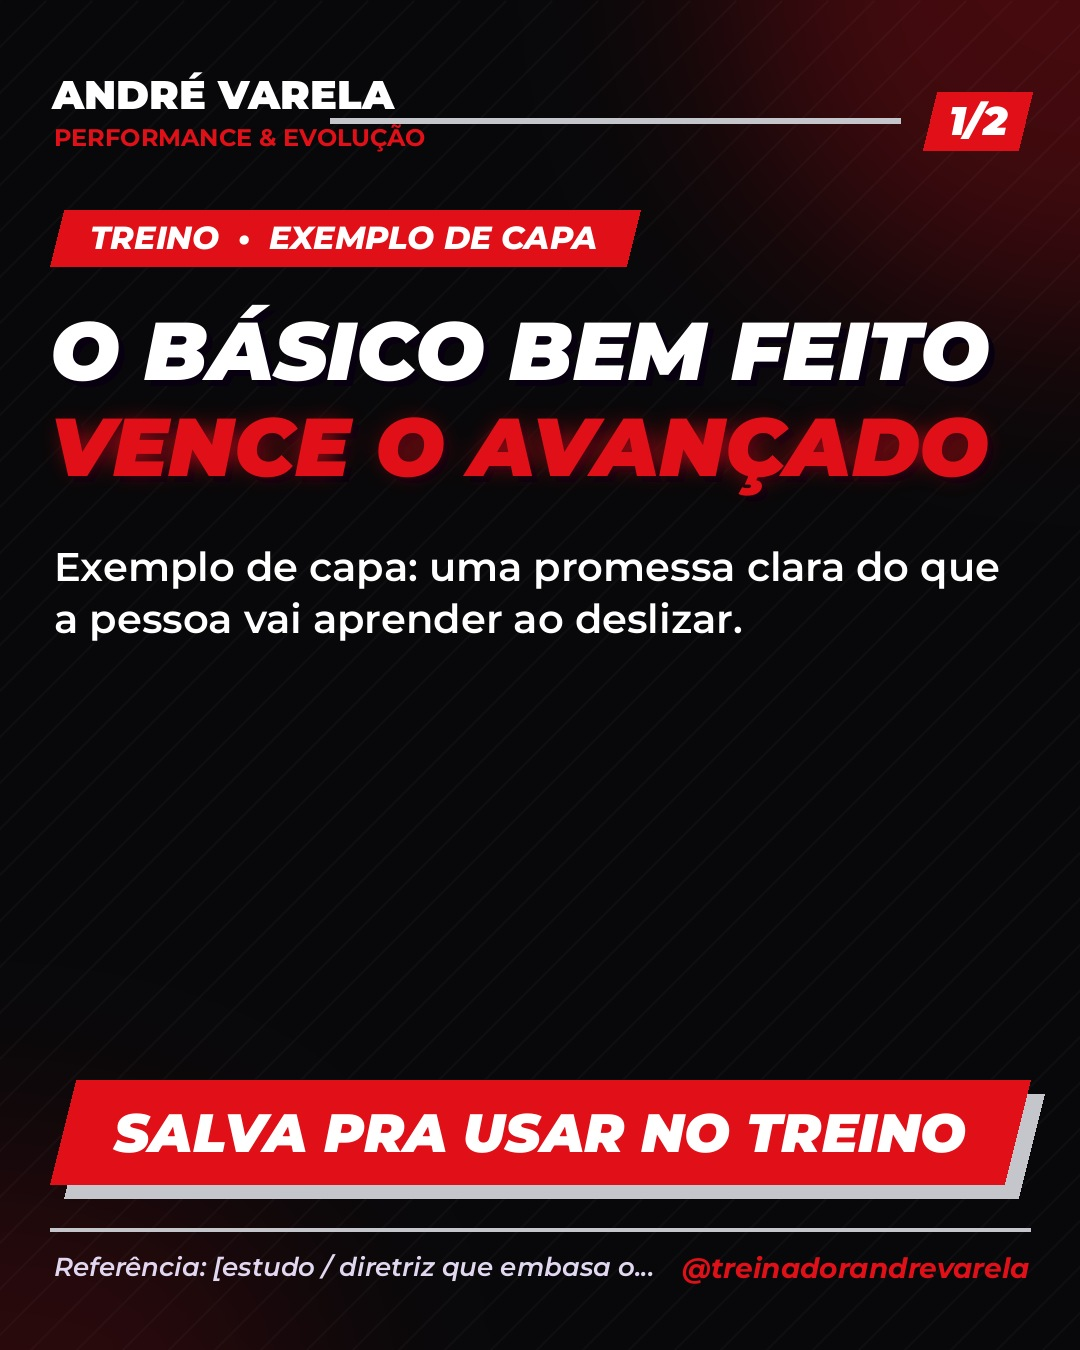
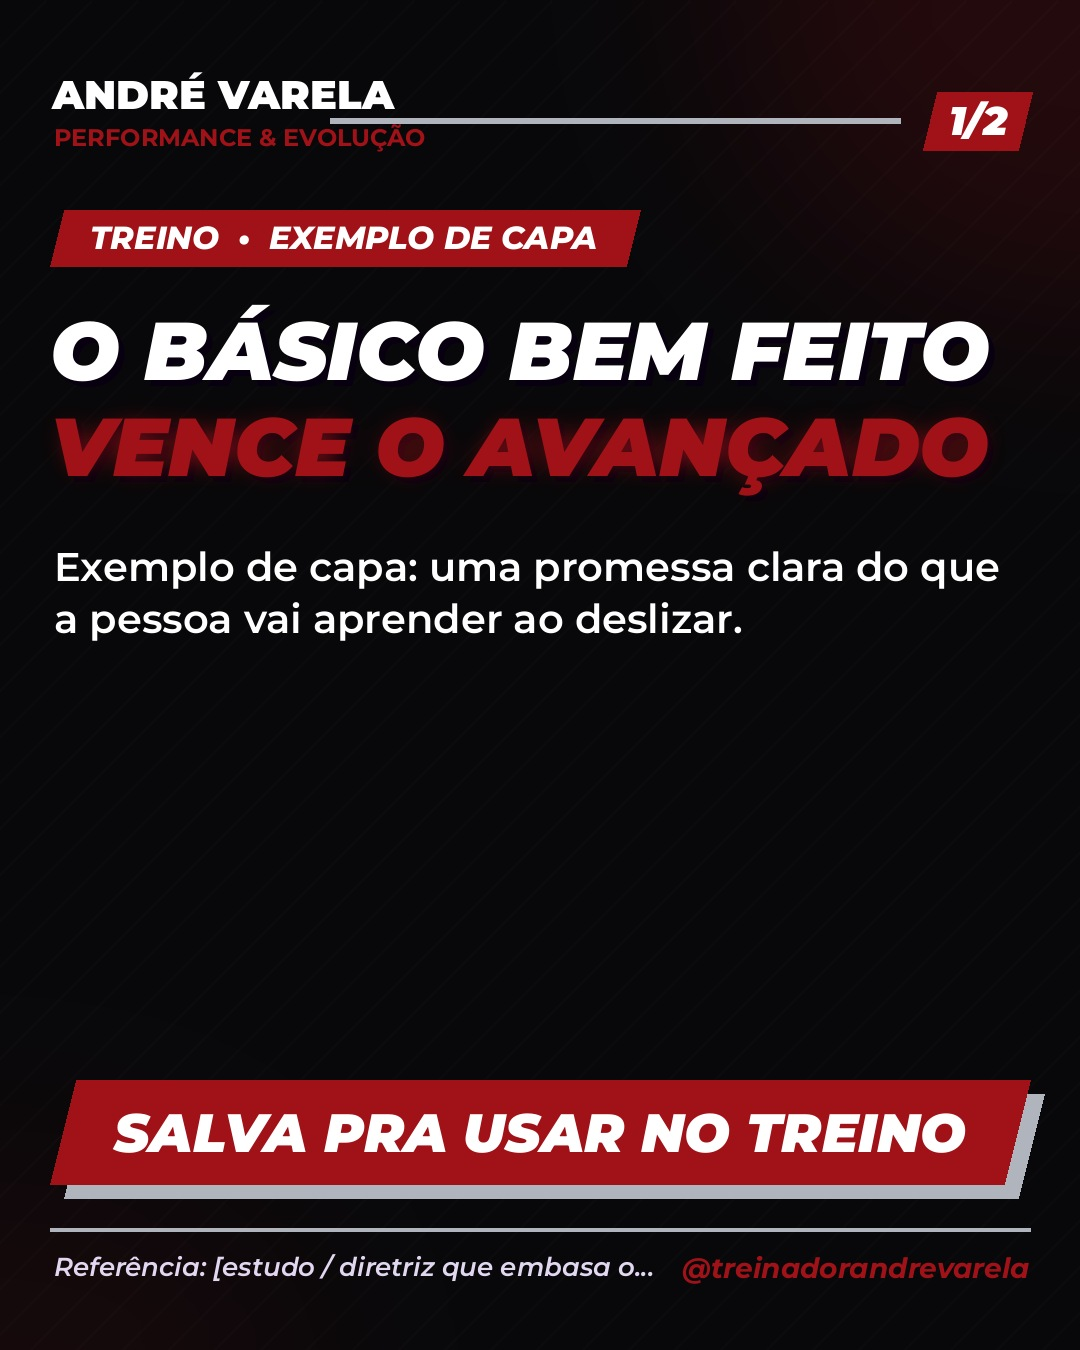
André Varela: tema alinhado à marca oficial (#A11218, vermelho pontual) e playbook aponta para o repo privado
Claude-Session: https://claude.ai/code/session_01PG81yox6oPVQ1jRhfWPUtz

diff --git a/gta-loucura/scripts/carrossel_v1.py b/gta-loucura/scripts/carrossel_v1.py
@@ -40,11 +40,11 @@ def fundo(foco_y=0.55, escurecer=150):
     if not TEMA.get('fundo'):
         im = Image.new('RGBA', (W, H), (8, 8, 10, 255)); d = ImageDraw.Draw(im)
         glow = Image.new('RGBA', (W, H), (0, 0, 0, 0)); gd = ImageDraw.Draw(glow)
-        gd.ellipse([W - 420, -380, W + 380, 380], fill=(*PINK, 70))
-        gd.ellipse([-300, H - 260, 380, H + 300], fill=(*PINK, 40))
+        gd.ellipse([W - 420, -380, W + 380, 380], fill=(*PINK, 45))
+        gd.ellipse([-300, H - 260, 380, H + 300], fill=(*PINK, 22))
         im.alpha_composite(glow.filter(ImageFilter.GaussianBlur(120)))
         lin = Image.new('RGBA', (W, H), (0, 0, 0, 0)); ld = ImageDraw.Draw(lin)
-        for x in range(-H, W, 46): ld.line([(x, H), (x + H, 0)], fill=(255, 255, 255, 6), width=2)
+        for x in range(-H, W, 46): ld.line([(x, H), (x + H, 0)], fill=(255, 255, 255, 3), width=2)
         im.alpha_composite(lin)
         return im
     bg = Image.open(os.path.join(RAIZ, TEMA['fundo'])).convert('RGBA')

diff --git a/andre-varela/PLAYBOOK.md b/andre-varela/PLAYBOOK.md
@@ -46,10 +46,12 @@
 
 ## 5. Identidade visual nos posts
 
-- **Cores:** preto (fundo), vermelho `#E11018` (destaque), prata/branco (texto e linhas).
-- **Marca:** "ANDRÉ VARELA" + "PERFORMANCE & EVOLUÇÃO". Quando subirem o logo AV para `andre-varela/logo/logo-av.png`, o gerador usa o logo no lugar do texto.
+- **Fonte oficial da marca:** o repositório privado `AV-LANDPAGE-VIDEOS` (`AGENTS.md`, `marca/IDENTIDADE_AV.md`, `instagram/PROTOCOLO_EDITORIAL_7_ETAPAS_AV.md`). Em caso de conflito, **o repositório privado vence**.
+- **Cores:** preto e grafite (fundo), prata/aço e branco (texto e linhas), vermelho de assinatura `#A11218` usado **só como detalhe**. Estética de luxo discreto, sem brilho exagerado nem clichê de academia.
+- **Marca:** "ANDRÉ VARELA" (com um L) + "PERFORMANCE & EVOLUÇÃO". O **monograma AV é intocável**: usar só o arquivo oficial, nunca redesenhar. Em 20/11/2026 o arquivo ainda **não está** em nenhum repositório; quando chegar, vai para `andre-varela/logo/logo-av.png` e o gerador passa a usá-lo no lugar do nome escrito.
 - **Fonte:** Montserrat (Black/ExtraBold), títulos em caixa alta.
-- **Fotos:** fotos reais do André treinando ou dando aula. Ele é a prova de autoridade.
+- **Fotos:** só fotos reais do André, as favoritas ficam em `AV-LANDPAGE-VIDEOS/assets/originais/01_FOTOS_FAVORITAS_USAR_COMO_BASE/`. Elas são privadas: só copiar uma foto para este repositório público (para gerar link) depois que o André aprovar aquele post. Fotos de competição precisam de contexto (não representam a forma atual).
+- **Publicação:** no Instagram AV, só posta depois da aprovação do André para cada peça (regra do `AGENTS.md` privado).
 
 ## 6. Legenda e hashtags
 
@@ -72,7 +74,7 @@ O formato do `slides.json` é o mesmo da GTA Loucura (`tipo`, `etiqueta`, `titul
 
 ## 8. Pendências para destravar
 
-- [ ] Subir o logo AV em PNG (fundo transparente) para `andre-varela/logo/logo-av.png`.
+- [ ] Enviar o arquivo oficial do monograma AV (o print `Screenshot_20261027_123545_WhatsApp.jpg` ou um PNG/vetor).
 - [ ] Conectar @treinadorandrevarela no vidIQ, para postar e agendar.
 - [ ] Separar algumas fotos e vídeos de treino do André, para fotos e B-roll.
-- [ ] Copiar este playbook para o repositório privado `AV-LANDPAGE-VIDEOS`, para o Codex também seguir.
+- [x] Registro no repositório privado: `instagram/MECANISMOS_CRIACAO_CLAUDE_2026-11-20.md`.
